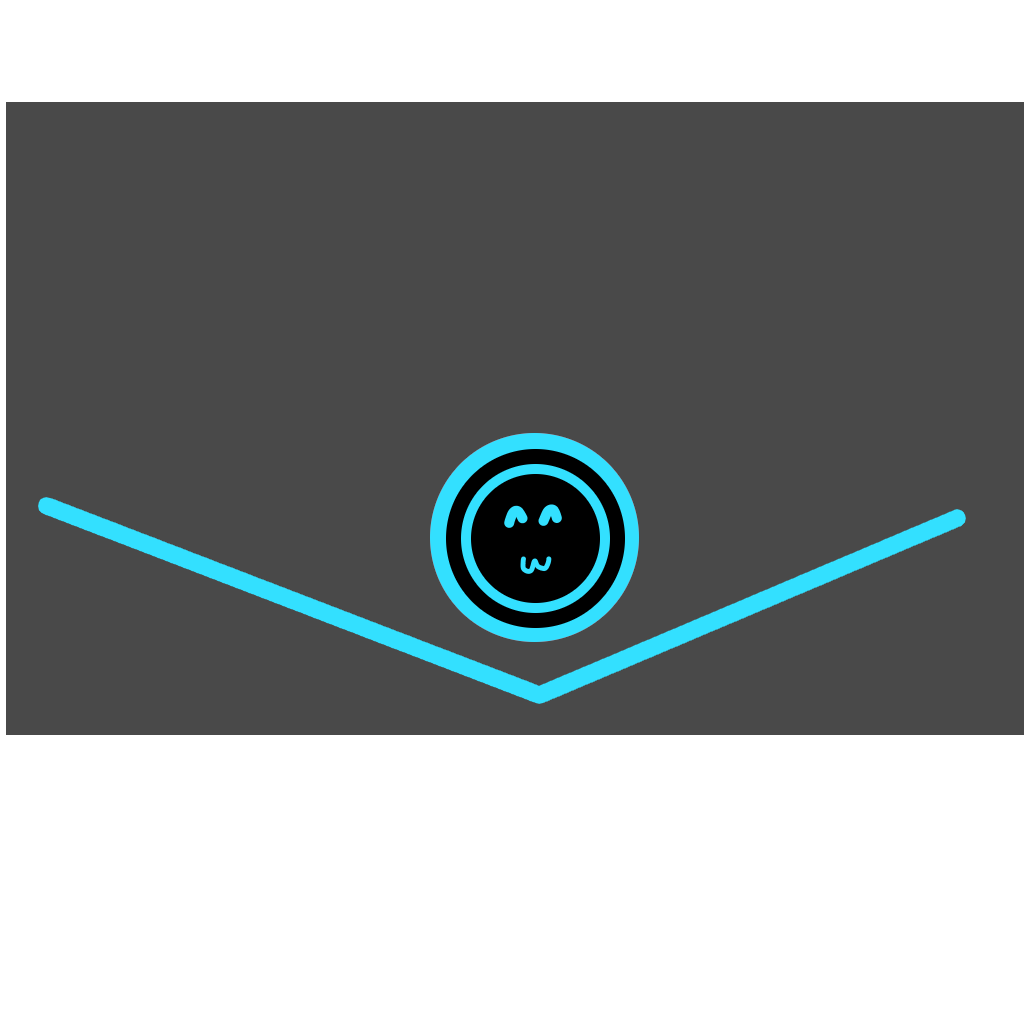
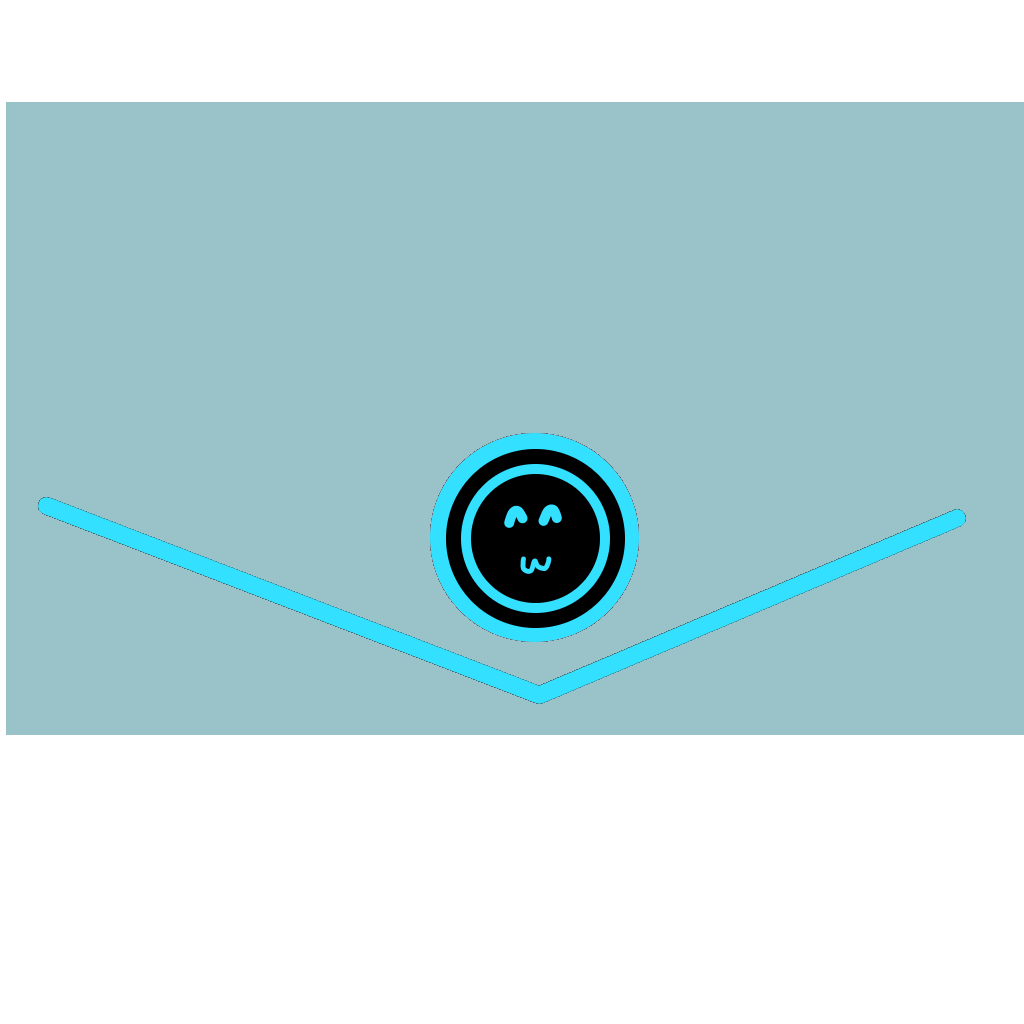
o

diff --git a/Application/Models/PlayerModel/PlayerModel.cpp b/Application/Models/PlayerModel/PlayerModel.cpp
@@ -48,7 +48,8 @@ PlayerModel::PlayerModel()
 	hand_R = M::GetInstance()->CreateModel("./resource/application/Model/Player/P_Hand_R/P_Hand_R.gltf");
 	head = M::GetInstance()->CreateModel(  "./resource/application/Model/Player/P_Head/P_Head.gltf");
 	leg_L = M::GetInstance()->CreateModel( "./resource/application/Model/Player/P_Leg_L/P_Leg_L.gltf");
-	leg_R = M::GetInstance()->CreateModel( "./resource/application/Model/Player/P_Leg_R/P_Leg_R.gltf");
+	leg_R = M::GetInstance()->CreateModel( "./resource/application/Model/Player/P_Leg_R/P_Leg_R.gltf"); 
+	cannon = M::GetInstance()->CreateModel("./resource/application/Model/Cannon/Common.gltf");
 
 	models.emplace_back(body.get());
 	models.emplace_back(hand_L.get());
@@ -56,7 +57,9 @@ PlayerModel::PlayerModel()
 	models.emplace_back(head.get());
 	models.emplace_back(leg_L.get());
 	models.emplace_back(leg_R.get());
+	models.emplace_back(cannon.get());
 
+	
 }
 
 void PlayerModel::Update(int mode_, float count_)
@@ -102,6 +105,13 @@ void PlayerModel::Init(Transform* gameObjectTrans_)
 	leg_R->GetAppearance(0)->texHandlesContainer[Appearance::kNormalmap] =
 		m->GetTexIndex(TextureTag::kPlayerLegN);
 
+	auto* cannonAppe = cannon->GetAppearance(0);
+	cannonAppe->trans.BeChildren(&hand_R->GetAppearance(0)->trans);
+	cannonAppe->texHandlesContainer[Appearance::kNormalmap] = m->GetTexIndex(TextureTag::kCannonN);
+	cannonAppe->trans.pos.z = 1.0f;
+	cannonAppe->color = { 255,45,0,255 };
+	cannonAppe->metalic = 0.52f;
+	cannonAppe->roughness = 0.59f;
 	for (auto* m : models)
 	{
 		auto* appe = m->GetAppearance(0);

diff --git a/Application/Scenes/InGameScene/InGameScene.cpp b/Application/Scenes/InGameScene/InGameScene.cpp
@@ -226,8 +226,7 @@ void InGameScene::Debug()
 	ImGui::Begin("InGameController");
 	ImGui::Text(("Mode  : " + inGameController->WathchInString()).c_str());
 	ImGui::Text("Count : %.1f", *inGameController->GetCnt());
-	ImGui::DragFloat("lightradiusCommon", &lightradiusCommon);
-	ImGui::DragFloat("intensityCommon", &intensityCommon);
+	ImGui::DragFloat4("ccc", reinterpret_cast<float*>(&player->model->cannon->GetAppearance(0)->color));
 	ImGui::End();
 
 	ImGui::Begin("Object Debug");
@@ -486,15 +485,14 @@ void InGameScene::PlayableMode()
 void InGameScene::Lighthing()
 {
 	int useNo = 0;
-	static Vector3 c;
 
 	//Player
 	auto* playerLight = fieldpointLights[0]->Getter_Para();
-	playerLight->intensity = 20000;
-	playerLight->invSqrRadius = 60;
+	playerLight->intensity = 10000;
+	playerLight->invSqrRadius = 600;
 	playerLight->pos =
 		Vector3{ 0,6.0f,-0.5f }.GetMultiply(player->Getter_Trans()->GetWorldMatrix());
-	playerLight->color = { 20,20,255 };
+	playerLight->color = { 50,50,255 };
 
 	useNo++;
 	Matrix4* vpMat = &cameraController->GetUsingCamera()->vpMat;
@@ -512,11 +510,13 @@ void InGameScene::Lighthing()
 		enemyTowerLight->intensity = 20000;
 		enemyTowerLight->invSqrRadius = 800;
 		enemyTowerLight->pos =
-			Vector3{ 0.0f,6.0f,1.75f}.GetMultiply(enemyTower->Getter_Trans()->GetWorldMatrix());
+			Vector3{ 0.0f,10,0 }.GetMultiply(enemyTower->Getter_Trans()->GetWorldMatrix());
 		enemyTowerLight->color = { 255,0,0 };
 
 		useNo++;
 	}
+
+
 
 	//factories
 	for (auto* factory_ : factories)

diff --git a/Application/Scenes/ModelScene/ModelScene.cpp b/Application/Scenes/ModelScene/ModelScene.cpp
@@ -20,8 +20,8 @@ void ModelScene::AdaptToPostEffect()
 	{
 	case PostEffectType::kNone:
 	{
-		dirPara->intensity = dirLightIntensityNormal;
-		dirPara->pos = dirLightDir;
+		//dirPara->intensity = dirLightIntensityNormal;
+		//dirPara->pos = dirLightDir;
 
 		for (auto* m : p.model->models)
 		{
@@ -57,8 +57,8 @@ void ModelScene::AdaptToPostEffect()
 	}
 	case PostEffectType::kGreyScale:
 	{
-		dirPara->intensity = dirLightIntensityNormal;
-		dirPara->pos = dirLightDir;
+		//dirPara->intensity = dirLightIntensityNormal;
+		//dirPara->pos = dirLightDir;
 
 		for (auto* m : p.model->models)
 		{
@@ -93,8 +93,8 @@ void ModelScene::AdaptToPostEffect()
 	}
 	case PostEffectType::kSimpleNeonLike:
 	{
-		dirPara->intensity = dirLightIntensityNeon;
-		dirPara->pos = dirLightDir;
+		//dirPara->intensity = dirLightIntensityNeon;
+		//dirPara->pos = dirLightDir;
 
 		for (auto* m : p.model->models)
 		{

diff --git a/Application/Cameras/MainCamera/CameraActions.cpp b/Application/Cameras/MainCamera/CameraActions.cpp
@@ -14,8 +14,13 @@ void CameraActions::FollowPlayer::operator()()
 	Vector3 nextPos = camera->player->Getter_Trans()->GetWorldPos() + offsetFollow;
 	float const adjustMul = 35.0f;
 
+	auto X = M::GetInstance()->getPadState.GetRightStick(0).x;
+	auto Y = M::GetInstance()->getPadState.GetRightStick(0).y;
+
+	Vector3 tmp = Vector3{ X,0,Y }.GetNormalized();
+
 	camera->cameraPara->trans.pos =
-		Easing::EaseOutCubic(camera->cameraPara->trans.pos, nextPos + Player::deltaPos* adjustMul,
+		Easing::EaseOutCubic(camera->cameraPara->trans.pos, nextPos + tmp * adjustMul,
 			kDefaultFollowCoe)+ offsetDebug ;
 
 #ifdef _DEBUG

diff --git a/M/lowerLayer/engineCore/Render/OffScreenManager/PostEffects/PostEffects.cpp b/M/lowerLayer/engineCore/Render/OffScreenManager/PostEffects/PostEffects.cpp
@@ -84,10 +84,10 @@ void PostEffects::SimpleNeonLike::Init(ID3D12Device* device_)
 PostEffects::SimpleNeonLike::SimpleNeonLike(TextureDataManager* textureDataManager_, int numRequired_) :
 	OffScreen(textureDataManager_, numRequired_) 
 {
-	para.backgroundDim = 0.0f;
+	para.backgroundDim = 0.01f;
 	para.edgeWidth = 1.0f;
-	para.texelSize = { 1.0f / CommonV::kWindow_W,1.0f / CommonV::kWindow_H };
-	//para.texelSize = { 0.002f,0.002f };
+	//para.texelSize = { 1.0f / CommonV::kWindow_W,1.0f / CommonV::kWindow_H };
+	para.texelSize = { 0.002f,0.002f };
 
 
 }

diff --git a/M/lowerLayer/ResourceContainer/ResourceContainer.cpp b/M/lowerLayer/ResourceContainer/ResourceContainer.cpp
@@ -42,7 +42,9 @@ void ResourceContainer::LoadAllTextureFile()
 	LoadTextureFile(TextureTag::kPlayerHandN, pathToPlayer + "P_Hand_normal.png");
 	LoadTextureFile(TextureTag::kPlayerBodyN, pathToPlayer + "P_Body_normal.png");
 	LoadTextureFile(TextureTag::kPlayerLegN, pathToPlayer +  "P_Leg_normal.png");
+	LoadTextureFile(TextureTag::kCannonN, pathToPlayer + "Cannon_normal.png");
 
+	
 	LoadTextureFile(TextureTag::kTowerN, pathToTower + "Tower_normal.png");
 	LoadTextureFile(TextureTag::kFactoryN, pathToFactory + "Factory_normal.png");
 

diff --git a/M/lowerLayer/Scene/SceneController/SceneController.cpp b/M/lowerLayer/Scene/SceneController/SceneController.cpp
@@ -13,7 +13,6 @@ void SceneController::Draw()
 	Matrix4* vpMat = &cur_Scene->cameraController->GetUsingCamera()->vpMat;
 	Matrix4 orthoMat = Get_Orthographic3D(0.0f, CommonV::kWindow_W, 0.0f, CommonV::kWindow_H);
 
-	cur_Scene->Draw();
 	cur_Scene->gameObjManager->Render(vpMat);
 
 #ifdef _DEBUG
@@ -127,6 +126,13 @@ void SceneController::Debug()
 
 #endif // USE_IMGUI
 
+}
+
+void SceneController::DrawNonPostEffect()
+{
+	SceneBehavior* cur_Scene = allScene[runningScene];
+
+	cur_Scene->Draw();
 }
 
 void SceneController::Update()

diff --git a/Application/Models/PlayerAllyModel/PlayerAllyModel.cpp b/Application/Models/PlayerAllyModel/PlayerAllyModel.cpp
@@ -44,7 +44,7 @@ void PlayerAllyModel::Init(Transform* gameObjectTrans_)
 	idleCnt.Initialize(5.0f);
 	appearance->metalic = 0.72f;
 	appearance->roughness = 0.4f;
-	appearance->trans.pos.y = 0.125f;
+	appearance->trans.pos.y = 0.35f;
 	appearance->color = { 50.0f,100.0f,255.0f,255.0f };
 	appearance->trans.rotation.y = 180.0f;
 

diff --git a/Application/Models/PlayerModel/PlayerModel.h b/Application/Models/PlayerModel/PlayerModel.h
@@ -16,6 +16,7 @@ public:
 	std::unique_ptr<ModelSimple> hand_R;
 	std::unique_ptr<ModelSimple> leg_L;
 	std::unique_ptr<ModelSimple> leg_R;
+	std::unique_ptr<ModelSimple> cannon;
 
 	std::vector<ModelSimple*> models;
 

diff --git a/M/lowerLayer/Scene/SceneController/SceneController.h b/M/lowerLayer/Scene/SceneController/SceneController.h
@@ -43,6 +43,7 @@ private:
 public:
 	void Update();
 	void Draw();
+	void DrawNonPostEffect();
 	SceneController(SceneType firstScene_);
 	static void ChangeScene(SceneType nextSceneType_);
 

diff --git a/main.cpp b/main.cpp
@@ -40,6 +40,10 @@ int WINAPI WinMain(HINSTANCE, HINSTANCE, LPSTR, int)
 
 			winApp.OffScreenEnd();
 
+			sceneController->DrawNonPostEffect();
+
+			winApp.EndFrame();
+
 		}
 	}
 

diff --git a/M/lowerLayer/engineCore/WinApp.cpp b/M/lowerLayer/engineCore/WinApp.cpp
@@ -93,7 +93,6 @@ void WinApp::OffScreenEnd()
 
 	exclusiveDraw.DrawOnPalette(offScreenManager.GetPalette());
 
-	EndFrame();
 
 }
 
